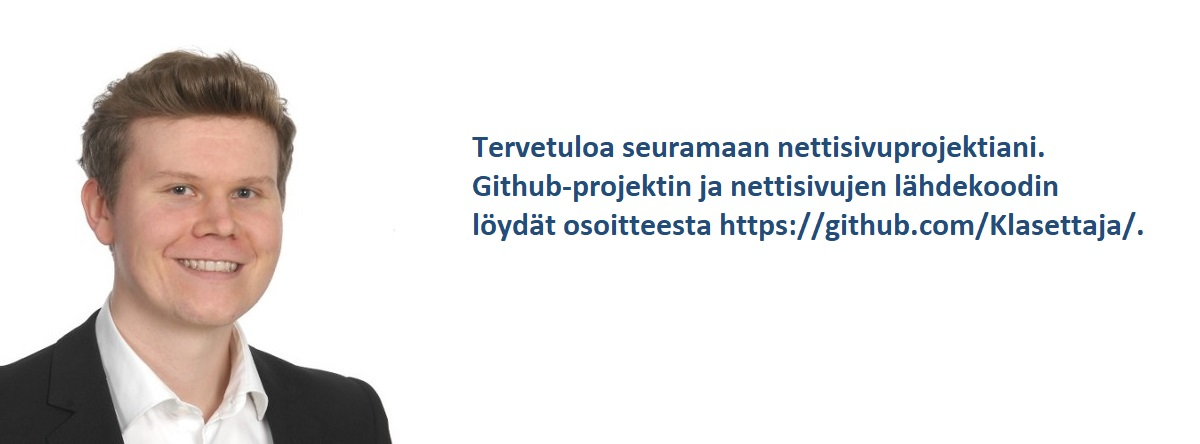
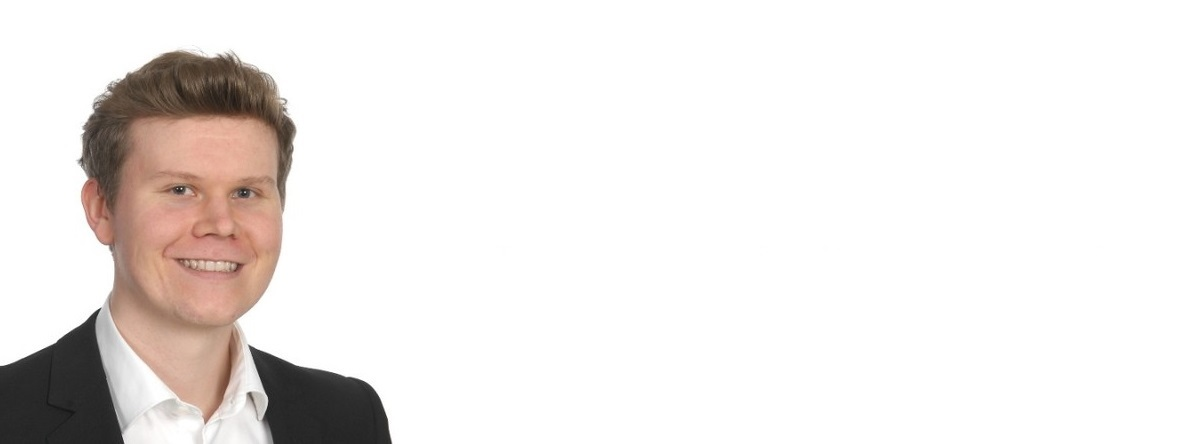
Text align -muutoksia

Changed region(s): [[0.37, 0.2928, 0.9558, 0.5563]]

diff --git a/right-sidebar.html b/right-sidebar.html
@@ -6,7 +6,7 @@
 -->
 <html>
 	<head>
-		<title>Dopetrope by HTML5 UP</title>
+		<title>Minä, Klaus Iltanen</title>
 		<meta charset="utf-8" />
 		<meta name="viewport" content="width=device-width, initial-scale=1, user-scalable=no" />
 		<link rel="stylesheet" href="assets/css/main.css" />
@@ -23,29 +23,29 @@
 					<!-- Nav -->
 						<nav id="nav">
 							<ul>
-								<li><a href="index.html">Home</a></li>
+								<li><a href="index.html">Etusivu</a></li>
+								<li><a href="no-sidebar.html">Klaus</a></li>
+								<li><a href="left-sidebar.html">Sivupalkki vasemmalla</a></li>
+								<li class="current"><a href="right-sidebar.html">Sivupalkki oikealla</a></li>	
 								<li>
-									<a href="#">Dropdown</a>
+									<a href="#">Alasvetovalikko</a>
 									<ul>
-										<li><a href="#">Lorem ipsum dolor</a></li>
-										<li><a href="#">Magna phasellus</a></li>
-										<li><a href="#">Etiam dolore nisl</a></li>
+										<li><a href="#">Alasivu 1</a></li>
+										<li><a href="#">Alasivu 2</a></li>
+										<li><a href="#">Alasivu 3</a></li>
 										<li>
-											<a href="#">Phasellus consequat</a>
+											<a href="#">Alasivu 4</a>
 											<ul>
-												<li><a href="#">Magna phasellus</a></li>
-												<li><a href="#">Etiam dolore nisl</a></li>
-												<li><a href="#">Veroeros feugiat</a></li>
-												<li><a href="#">Nisl sed aliquam</a></li>
-												<li><a href="#">Dolore adipiscing</a></li>
+												<li><a href="#">Alasivun alasivu 1</a></li>
+												<li><a href="#">Alasivun alasivu 2</a></li>
+												<li><a href="#">Alasivun alasivu 3</a></li>
+												<li><a href="#">Alasivun alasivu 4</a></li>
+												<li><a href="#">Alasivun alasivu 5</a></li>
 											</ul>
 										</li>
 										<li><a href="#">Veroeros feugiat</a></li>
 									</ul>
 								</li>
-								<li><a href="left-sidebar.html">Left Sidebar</a></li>
-								<li class="current"><a href="right-sidebar.html">Right Sidebar</a></li>
-								<li><a href="no-sidebar.html">No Sidebar</a></li>
 							</ul>
 						</nav>
 
@@ -61,7 +61,7 @@
 									<article class="box post">
 										<a href="#" class="image featured"><img src="images/pic01.jpg" alt="" /></a>
 										<header>
-											<h2>Right sidebar</h2>
+											<h2>Minä, Klaus Iltanen</h2>
 											<p>Lorem ipsum dolor sit amet feugiat</p>
 										</header>
 										<p>

diff --git a/index.html b/index.html
@@ -31,6 +31,9 @@
 						<nav id="nav">
 							<ul>
 								<li class="current"><a href="index.html">Etusivu</a></li>
+								<li><a href="right-sidebar.html">Klaus</a></li>
+								<li><a href="left-sidebar.html">Sivupalkki vasemmalla</a></li>
+								<li><a href="no-sidebar.html">Ei sivupalkkia</a></li>
 								<li>
 									<a href="#">Alasvetovalikko</a>
 									<ul>
@@ -50,20 +53,15 @@
 										<li><a href="#">Alasivu 5</a></li>
 									</ul>
 								</li>
-								<li><a href="left-sidebar.html">Sivupalkki vasemmalla</a></li>
-								<li><a href="right-sidebar.html">Sivupalkki oikealla</a></li>
-								<li><a href="no-sidebar.html">Ei sivupalkkia</a></li>
 							</ul>
 						</nav>
 						
 					<!-- Banner -->
 						<section id="banner">
-							<!--
-							<header>
+							<p>Tervetuloa nettisivuilleni! <br>Voit seurata nettisivuprojektini<br>edistymistä osoitteessa <a href="https://github.com/Klasettaja">https://github.com/Klasettaja</a></p>
+							<!--<header>
 								<h2>Tervetuloa</h2>
-								<p>Voit seurata nettisivuprojektin edistymistä osoitteessa <a href="https://github.com/Klasettaja">https://github.com/Klasettaja</a></p>
-							</header>
-							-->
+							</header>-->
 						</section>
 
 					<!-- Intro -->

diff --git a/assets/css/main.css b/assets/css/main.css
@@ -2168,10 +2168,11 @@ input, select, textarea {
 
 	#banner {
 		background: #fff url("../../images/pic01.jpg");
-		background-position: center center;
+		background-position: left left;
 		background-size: auto 100%;
 		background-repeat: no-repeat;
-		text-align: center;
+		text-align: justify;
+		text-align-last:center;
 		position: relative;
 		padding: 8em 0;
 		margin: 4em 0 0 0;
@@ -2390,7 +2391,7 @@ input, select, textarea {
 		/* Banner */
 
 			#banner {
-				padding: 6em 0;
+				padding: 8em 0;
 				margin: 3em 0 0 0;
 			}
 
